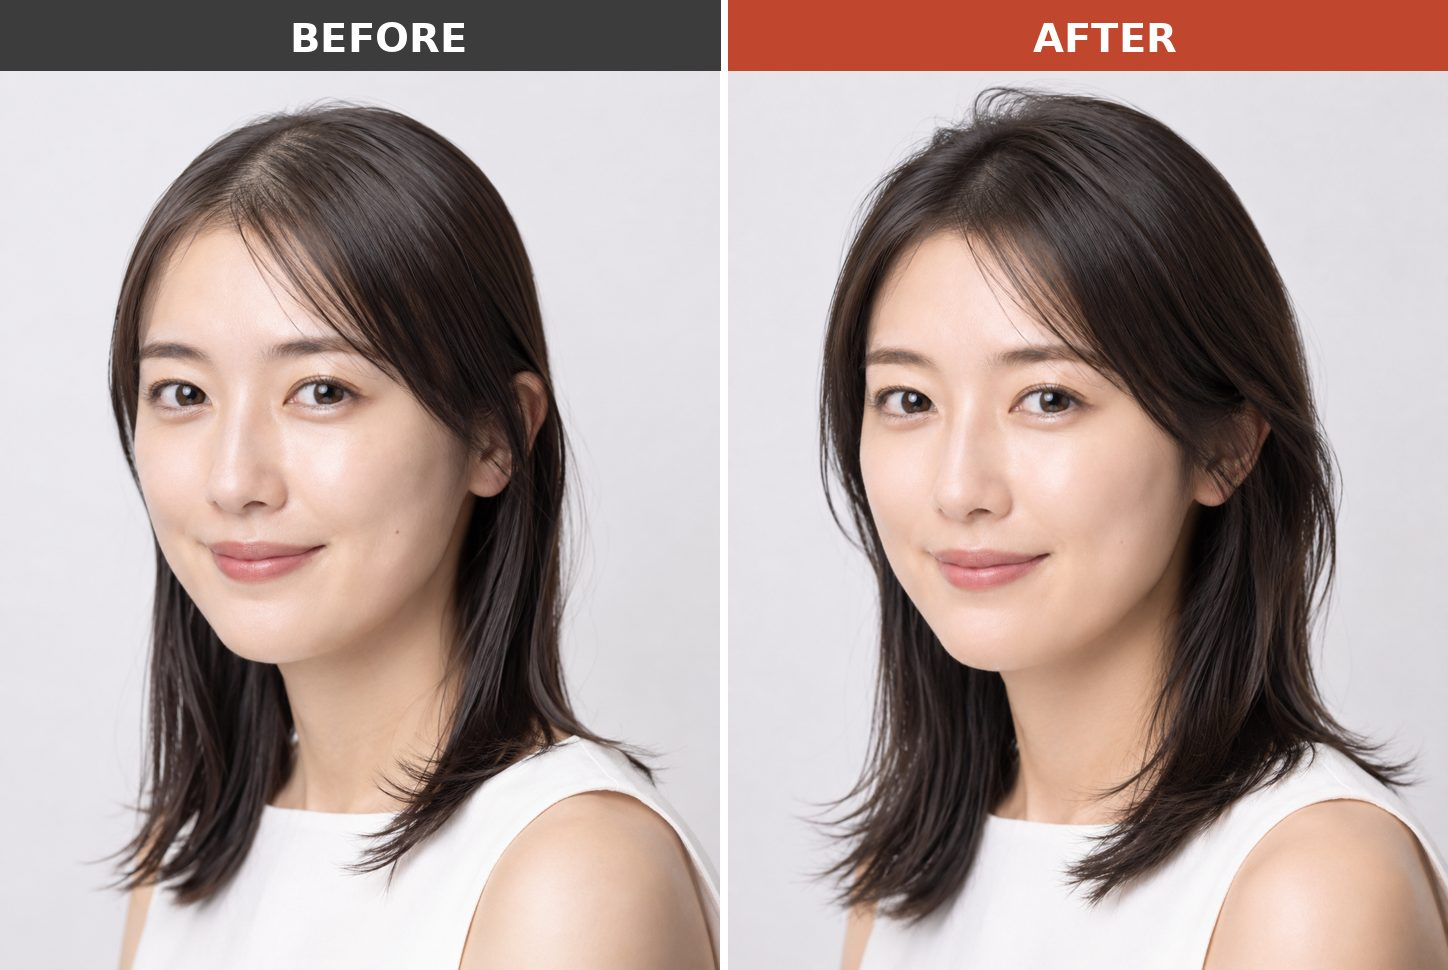
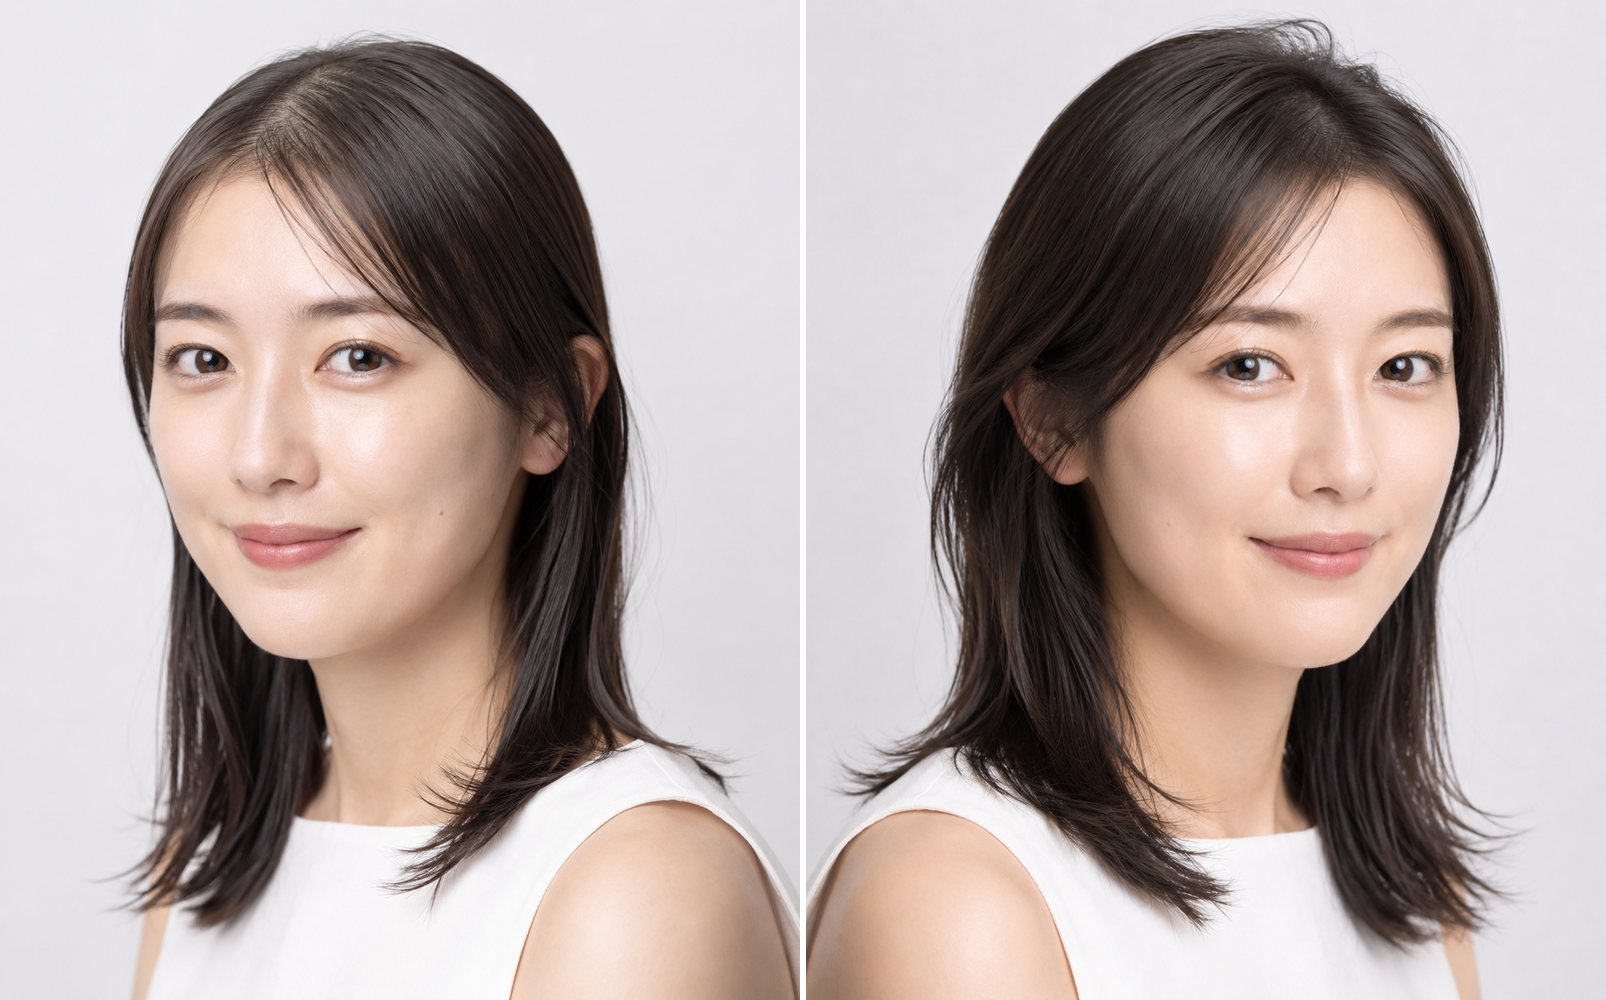
Before/After刷新: 太バー撤去→クリームカード+英字ラベルのエディトリアル調 / Afterを反転しBefore⇄Afterを向き合う構図に

diff --git a/index.html b/index.html
@@ -387,22 +387,27 @@
     </div>
 
     <style>
-    .ba-band{margin-top:clamp(40px,6vw,64px)}
-    .ba-head{display:flex;align-items:baseline;gap:16px;flex-wrap:wrap;margin-bottom:20px}
-    .ba-ey{font-family:var(--serif);font-style:italic;font-size:clamp(20px,2.4vw,28px);color:var(--ink)}
-    .ba-note{font-size:11px;letter-spacing:.02em;color:var(--muted)}
-    .ba-grid{display:grid;grid-template-columns:repeat(3,1fr);gap:16px}
-    .ba-grid figure{margin:0;overflow:hidden;border:1px solid var(--line);border-radius:3px;background:var(--white)}
-    .ba-grid img{width:100%;height:auto;display:block}
-    .ba-grid figcaption{padding:10px 12px;font-size:12px;color:var(--ink-soft);border-top:1px solid var(--line)}
-    @media(max-width:760px){.ba-grid{grid-template-columns:1fr}}
+    .ba-band{margin-top:clamp(44px,6vw,72px)}
+    .ba-head{display:flex;align-items:baseline;gap:18px;flex-wrap:wrap;margin-bottom:26px}
+    .ba-ey{font-family:var(--serif);font-style:italic;font-size:clamp(22px,2.6vw,30px);color:var(--ink)}
+    .ba-note{font-size:11px;letter-spacing:.04em;color:var(--muted)}
+    .ba-grid{display:grid;grid-template-columns:repeat(3,1fr);gap:22px}
+    .ba-grid figure{margin:0;background:var(--cream);border:1px solid var(--line);border-radius:4px;overflow:hidden}
+    .ba-im{position:relative;line-height:0}
+    .ba-im img{width:100%;height:auto;display:block}
+    .ba-im .lbl{position:absolute;top:12px;font-size:10px;letter-spacing:.22em;font-weight:600;color:var(--ink);background:rgba(255,255,255,.85);padding:5px 10px;border-radius:2px}
+    .ba-im .lbl.b{left:12px}
+    .ba-im .lbl.a{right:12px}
+    .ba-im::after{content:"";position:absolute;top:0;bottom:0;left:50%;width:1px;background:rgba(255,255,255,.92);transform:translateX(-.5px)}
+    .ba-grid figcaption{padding:14px 16px;font-size:12.5px;letter-spacing:.02em;color:var(--ink-soft);border-top:1px solid var(--line);background:var(--white)}
+    @media(max-width:760px){.ba-grid{grid-template-columns:1fr;gap:16px}}
     </style>
     <div class="ba-band reveal">
       <div class="ba-head"><span class="ba-ey">Before / After</span><span class="ba-note">写真は使用イメージです。効果や感じ方には個人差があります。</span></div>
       <div class="ba-grid">
-        <figure><img src="assets/ba-1.jpg" alt="使用イメージ ブリーチによる傷み"><figcaption>ブリーチによる傷み</figcaption></figure>
-        <figure><img src="assets/ba-2.jpg" alt="使用イメージ 年齢によるパサつき"><figcaption>年齢によるパサつき</figcaption></figure>
-        <figure><img src="assets/ba-3.jpg" alt="使用イメージ 細くペタつく髪"><figcaption>細くペタつく髪</figcaption></figure>
+        <figure><div class="ba-im"><img src="assets/ba-1.jpg" alt="使用イメージ ブリーチによる傷み"><span class="lbl b">BEFORE</span><span class="lbl a">AFTER</span></div><figcaption>ブリーチによる傷み</figcaption></figure>
+        <figure><div class="ba-im"><img src="assets/ba-2.jpg" alt="使用イメージ 年齢によるパサつき"><span class="lbl b">BEFORE</span><span class="lbl a">AFTER</span></div><figcaption>年齢によるパサつき</figcaption></figure>
+        <figure><div class="ba-im"><img src="assets/ba-3.jpg" alt="使用イメージ 細くペタつく髪"><span class="lbl b">BEFORE</span><span class="lbl a">AFTER</span></div><figcaption>細くペタつく髪</figcaption></figure>
       </div>
     </div>
 
